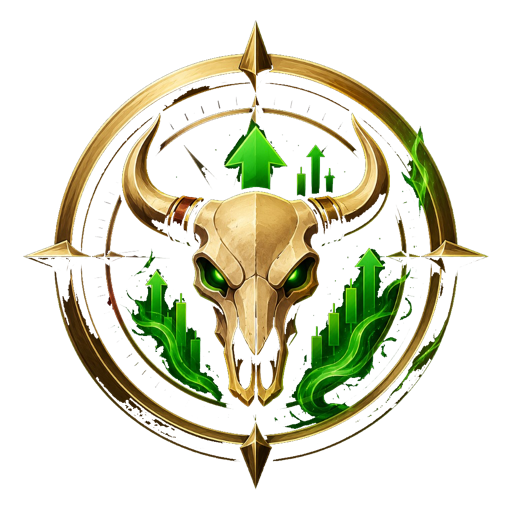
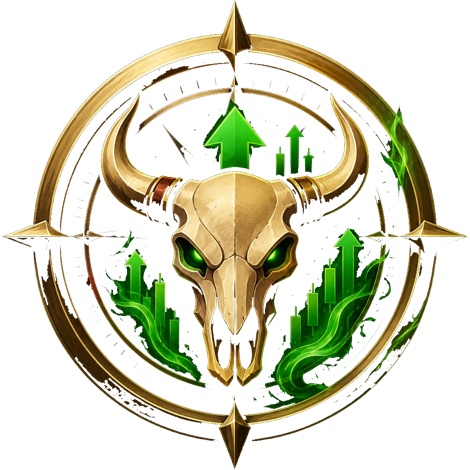
Rework home hero preview and make the home watchlist read-only.
- Update the hero lede copy and let it span the hero edge-to-edge.
- Add a bearish "Risk Drift" counter-example beside "Strategy Check", with
  trimmed/transparent bull + bear compass badges sized inside the cards and
  laid out side by side (wrapping to a stack on narrow viewports).
- Swap the Strategy Check icon to TrendUp; move Skull to Risk Drift.
- Remove the hero stats row.
- Give WatchlistWidget a read-only mode (used on home): drop the add form and
  remove buttons, and show a static snapshot header (compass + status chip)
  destined for live alignment insights.

diff --git a/src/index.css b/src/index.css
@@ -579,7 +579,7 @@ button {
 .lede {
   color: var(--text-muted);
   font-size: clamp(1rem, 1.6vw, 1.18rem);
-  max-width: 46ch;
+  max-width: none;
 }
 
 /* Hero */
@@ -640,39 +640,18 @@ button {
   margin-top: var(--space-2);
 }
 
-.hero-stats {
-  display: flex;
-  flex-wrap: wrap;
-  gap: var(--space-4);
-  margin-top: var(--space-3);
-  padding-top: var(--space-3);
-  border-top: 1px solid var(--border-soft);
-}
-
-.hero-stat dt {
-  font-size: 0.75rem;
-  text-transform: uppercase;
-  letter-spacing: 0.12em;
-  color: var(--text-faint);
-}
-
-.hero-stat dd {
-  font-size: 1.05rem;
-  font-weight: 600;
-  color: var(--text-strong);
-}
-
 .hero-preview {
   position: relative;
   display: flex;
   flex-direction: column;
   gap: var(--space-3);
-  align-items: center;
+  align-items: stretch;
 }
 
+/* Small emblem badge that sits beside the chip inside a preview card. */
 .compass {
   position: relative;
-  width: clamp(150px, 19vw, 220px);
+  width: clamp(48px, 5.5vw, 60px);
   aspect-ratio: 1;
   display: grid;
   place-items: center;
@@ -686,19 +665,30 @@ button {
   height: 100%;
   object-fit: contain;
   display: block;
-  filter: drop-shadow(0 0 28px rgb(241 178 74 / 0.18));
+  filter: drop-shadow(0 0 12px rgb(241 178 74 / 0.28));
+}
+
+/* Bearish counter-example: a red glow instead of the bullish gold. */
+.compass--risk .compass-img {
+  filter: drop-shadow(0 0 12px rgb(255 107 107 / 0.3));
 }
 
 .hero-preview-card {
   width: 100%;
-  margin-top: 1.6rem;
   padding: var(--space-3);
   border-radius: var(--radius-md);
   border: 1px solid var(--border-soft);
   background: var(--surface-3);
   display: flex;
   flex-direction: column;
-  gap: 0.5rem;
+  gap: 0.6rem;
+}
+
+/* Emblem badge + status chip, stacked above the caption paragraph. */
+.hero-preview-card-head {
+  display: flex;
+  align-items: center;
+  gap: 0.6rem;
 }
 
 .hero-preview-card p {
@@ -1140,6 +1130,23 @@ select.input {
   display: flex;
   gap: 0.5rem;
   margin-bottom: var(--space-3);
+}
+
+/* Read-only snapshot header (home) — sits where the add form is on the
+   dashboard. Emblem + chip are static placeholders for a future live insight. */
+.watchlist-snapshot {
+  display: flex;
+  align-items: center;
+  gap: 0.6rem;
+  margin-bottom: var(--space-3);
+}
+
+.watchlist-snapshot-body {
+  display: flex;
+  flex-direction: column;
+  align-items: flex-start;
+  gap: 0.3rem;
+  min-width: 0;
 }
 
 .input {
@@ -2322,20 +2329,17 @@ button.nav-link {
   order: 0;
   margin-top: var(--space-2);
   flex-direction: row;
-  align-items: center;
+  align-items: stretch;
   justify-content: flex-start;
   flex-wrap: wrap;
-  gap: var(--space-4);
+  gap: var(--space-3);
 }
 
+/* Two caption cards sit side by side and only wrap to a stack once the row can
+   no longer fit them (tablet portrait / mobile), keeping equal heights. */
 .hero--center .hero-preview-card {
-  margin-top: 0;
-  flex: 1;
-  min-width: 200px;
-}
-
-.hero--center .compass {
-  width: clamp(140px, 16vw, 192px);
+  flex: 1 1 240px;
+  min-width: 0;
 }
 
 .chart-name {

diff --git a/src/components/WatchlistWidget.tsx b/src/components/WatchlistWidget.tsx
@@ -2,8 +2,10 @@ import { useState } from "react";
 import { useAppState } from "../state/AppState";
 import { formatChange, formatPrice } from "../lib/format";
 import { StatusBadge } from "./StatusBadge";
+import { TrendUp } from "../lib/icons";
+import bullCompass from "../assets/bull-skull-compass.png";
 
-export function WatchlistWidget() {
+export function WatchlistWidget({ readOnly = false }: { readOnly?: boolean }) {
   const {
     watchlist,
     selectedTicker,
@@ -29,22 +31,39 @@ export function WatchlistWidget() {
         <h2 id="watchlist-title">Current Watch</h2>
         <span className="panel-tag">{watchlist.length} names</span>
       </div>
-      <form className="watchlist-add" onSubmit={handleSubmit}>
-        <label className="visually-hidden" htmlFor="add-ticker">
-          Add a ticker
-        </label>
-        <input
-          id="add-ticker"
-          className="input"
-          placeholder="Add ticker (e.g. TSLA)"
-          value={draft}
-          maxLength={6}
-          onChange={(event) => setDraft(event.target.value)}
-        />
-        <button type="submit" className="btn btn--small">
-          Add
-        </button>
-      </form>
+      {readOnly ? (
+        // Static placeholder snapshot — the emblem + chip will be driven by live
+        // alignment insights in a future iteration.
+        <div className="watchlist-snapshot">
+          <div className="compass">
+            <img className="compass-img" src={bullCompass} alt="" />
+          </div>
+          <div className="watchlist-snapshot-body">
+            <span className="watch-signal watch-signal--positive">Strategy Check</span>
+            <span className="chip status--positive">
+              <TrendUp aria-hidden />
+              High Alignment
+            </span>
+          </div>
+        </div>
+      ) : (
+        <form className="watchlist-add" onSubmit={handleSubmit}>
+          <label className="visually-hidden" htmlFor="add-ticker">
+            Add a ticker
+          </label>
+          <input
+            id="add-ticker"
+            className="input"
+            placeholder="Add ticker (e.g. TSLA)"
+            value={draft}
+            maxLength={6}
+            onChange={(event) => setDraft(event.target.value)}
+          />
+          <button type="submit" className="btn btn--small">
+            Add
+          </button>
+        </form>
+      )}
       <ul className="watchlist-items">
         {watchlist.map((item) => {
           const isActive = item.ticker === selectedTicker;
@@ -97,14 +116,16 @@ export function WatchlistWidget() {
                     Strategy Check · {signal.state}
                   </span>
                 </button>
-                <button
-                  type="button"
-                  className="watch-remove"
-                  onClick={() => removeTicker(item.ticker)}
-                  aria-label={`Remove ${item.ticker} from watchlist`}
-                >
-                  &times;
-                </button>
+                {readOnly ? null : (
+                  <button
+                    type="button"
+                    className="watch-remove"
+                    onClick={() => removeTicker(item.ticker)}
+                    aria-label={`Remove ${item.ticker} from watchlist`}
+                  >
+                    &times;
+                  </button>
+                )}
               </div>
             </li>
           );

diff --git a/src/components/HeroCard.tsx b/src/components/HeroCard.tsx
@@ -1,9 +1,10 @@
 import bullCompass from "../assets/bull-skull-compass.png";
-import { Skull } from "../lib/icons";
+import bearCompass from "../assets/bear-skull-compass.png";
+import { Skull, TrendUp } from "../lib/icons";
 import { useAppState } from "../state/AppState";
 
 export function HeroCard({ variant = "full" }: { variant?: "full" | "center" }) {
-  const { setActivePage, watchlist } = useAppState();
+  const { setActivePage } = useAppState();
 
   return (
     <section
@@ -18,9 +19,17 @@ export function HeroCard({ variant = "full" }: { variant?: "full" | "center" }) 
             Trade your plan. Track your discipline. Level up your strategy.
           </h1>
           <p className="lede">
-            Skulls and Trading is a dark command center that rewards following your
-            own rules — not chasing trades. Forge a strategy, check each name against
-            it, and log the thesis before you act.
+            Skulls and Trading is an AI-powered investing journal that helps users
+            trade their plan instead of chasing the market.
+          </p>
+          <p className="lede">
+            It tracks portfolios, strategies, risk rules, and Captain’s Log entries,
+            then uses AI to show where users are aligned, drifting, or breaking their
+            own rules.
+          </p>
+          <p className="lede">
+            It’s not a stock-picking app. It’s a discipline engine for serious retail
+            investors.
           </p>
           <div className="hero-actions">
             <button
@@ -38,31 +47,35 @@ export function HeroCard({ variant = "full" }: { variant?: "full" | "center" }) 
               Forge a Strategy
             </button>
           </div>
-          <dl className="hero-stats">
-            <div className="hero-stat">
-              <dt>On watch</dt>
-              <dd>{watchlist.length} names</dd>
-            </div>
-            <div className="hero-stat">
-              <dt>Lenses</dt>
-              <dd>Investor + Trader</dd>
-            </div>
-            <div className="hero-stat">
-              <dt>Rewards</dt>
-              <dd>Discipline, not trades</dd>
-            </div>
-          </dl>
         </div>
         <aside className="hero-preview" aria-hidden="true">
-          <div className="compass">
-            <img className="compass-img" src={bullCompass} alt="" />
+          <div className="hero-preview-card">
+            <div className="hero-preview-card-head">
+              <div className="compass">
+                <img className="compass-img" src={bullCompass} alt="" />
+              </div>
+              <span className="chip status--positive">
+                <TrendUp aria-hidden />
+                Strategy Check
+              </span>
+            </div>
+            <p>Your rules, your thesis, your invalidation — checked before you act.</p>
           </div>
           <div className="hero-preview-card">
-            <span className="chip status--positive">
-              <Skull aria-hidden />
-              Strategy Check
-            </span>
-            <p>Your rules, your thesis, your invalidation — checked before you act.</p>
+            <div className="hero-preview-card-head">
+              <div className="compass compass--risk">
+                <img className="compass-img" src={bearCompass} alt="" />
+              </div>
+              <span className="chip status--negative">
+                <Skull aria-hidden />
+                Risk Drift
+              </span>
+            </div>
+            <p>
+              When the market turns against your plan, see what changed before
+              emotion takes the helm — thesis, position size, cash, exposure, or
+              invalidation.
+            </p>
           </div>
         </aside>
       </div>

diff --git a/src/lib/icons.tsx b/src/lib/icons.tsx
@@ -14,6 +14,7 @@ import {
   Skull,
   Strategy,
   Sparkle,
+  TrendUp,
   Warning,
   WarningOctagon,
 } from "@phosphor-icons/react";
@@ -30,6 +31,7 @@ export {
   Skull,
   Sparkle,
   Strategy,
+  TrendUp,
   Warning,
   WarningOctagon,
 };

diff --git a/src/pages/HomePage.tsx b/src/pages/HomePage.tsx
@@ -87,7 +87,7 @@ export function HomePage() {
             <MarketFlowWidget />
           </section>
           <section className="home-slide home-slide--watch" data-home-tab="current-watch">
-            <WatchlistWidget />
+            <WatchlistWidget readOnly />
           </section>
         </div>
       </div>